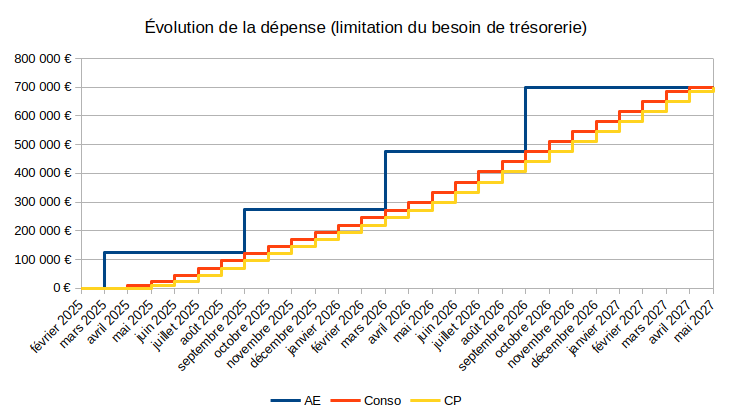
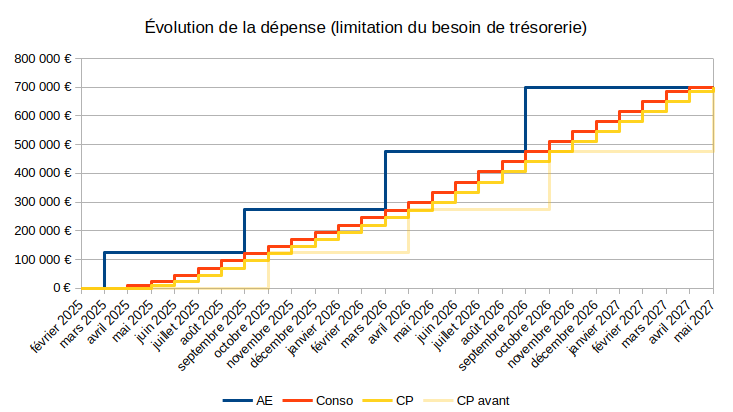
Rédaction article budget 2025

diff --git a/content/_posts/2025-05-19-gestion-budget.md b/content/_posts/2025-05-19-gestion-budget.md
@@ -151,30 +151,63 @@ En réalité, les dépenses de l'État sont discutées et votées par les parlem
 
 Cette présention, à l'année civile est importante pour les comités d'investissement et pour insérer les logiques et enjeux de l'équipe dans les préoccupations et les choix de priorisation de leur administration sponsor.
 
-Par ailleurs, on a l'habitude d'entendre **AE égal CP** pour signifier que l'on ne peut payer que ce que l'on a engagé. Mais cette représentation, pour un cas simple, nous montre que les dépenses d'AE sont **en avance** et celles de CP sont **en retard** par rapport à la consommation réelle.
+Par ailleurs, on a l'habitude d'entendre « **AE égal CP** » pour signifier que l'on ne peut payer que ce que l'on a engagé. Mais cette représentation, même pour un cas simple, nous montre que les dépenses d'AE sont **en avance** et celles de CP sont **en retard** par rapport à la consommation réelle. Comme les années civiles s'enchaînent de façon arbitraire, les « photos » budgétaires reflètent rarement cet adage « AE égal CP ».
 
-![Illustration de la dépense cumulée en AE, réel et CP](/img/posts/2025-05-19-gestion-budgetaire/base.png)
+![Illustration de la dépense cumulée en AE, réel et CP avec les AE en avant et les CP en retard vis à vis du réel](/img/posts/2025-05-19-gestion-budgetaire/base.png)
+
+Le graphique « Évolution de la dépense » illustre le fait que les AE (la courbe bleue) sont dépensées en amont et donc plus rapidement (la courbe bleue est au dessus de la rouge) que le travail est réalisé (la courbe rouge) et que les CP (la courbe jaune) sont dépensés en aval du travail (la courbe jaune est en dessus de la rouge).
 
 ## Les marges de manoeuvre
 
-### Limiter les besoins en trésorerie
+Ces décalages ont des conséquances importantes dans le suivi budgétaire et dans les relations qu'une équipe entretient avec le reste de son écosystème. Voilà quelques pistes qui peuvent être creusées pour collaborer sereinement avec les différentes parties prenantes.
 
-- Des SF partiels mensuels.
-décrire l'espace entre les courbes rouge et jaune
+
+### Limiter les besoins en trésorerie des attributaires
+
+> « Tout travail mérite salaire. »
+
+Sans vouloir revenir sur les limites de cette expression, ce qu'il faut souligner c'est que l'évolution de la courbe rouge est liée au travail de personnes qui seront rémunérées pour cet effort. Qu'elles soient salariées ou sous-traitantes de l'attributaire cela constituera une dépense pour cet attributaire. Cela étant dit, l'entreprise attributaire quant à elle sera payée lorsque des CP (crédits de paiement) sont dépensés, au rythme de la courbe jaune. Plus l'écart (vertical) entre les courbes rouge et jaune est grand, plus l'attributaire a un besoin de trésorerie important. Pour des petites entreprises cela peut générer des situations d'importantes tensions financières.
+
+Pour cette raison, il est possible d'accélérer les dépenses de CP avec ce qu'on appelle des services faits partiels. C'est à dire que les travaux sont certifiés progressivement et en plusieurs fois sans attendre la consommation totale d'un bon de commande. Dans les faits, de plus en plus d'équipes mettent en place des services faits partiels **mensuels**.
+
+
 ![Illustration de la dépense cumulée en AE, réel et CP](/img/posts/2025-05-19-gestion-budgetaire/limite-treso.png)
+
+Le graphique « limitation du besoin de trésorerie » illustre la mise en place des services faits partiels mensuels. On y voit que la courbe jaune est beaucoup moins décalée que la précédente (représentée en transparente).
+
 
 ### Sécuriser la continuité des travaux
 
-Décrire les endroits où les courbes bleu et rouge se touchent comme un risque
+Les changement d'année civile et les périodes de comité d'investissement peuvent générer une tension finanicère sur l'équipe. En effet, d'une part, l'émission d'un bon de commande qui permet à des personnes de travailler est impossible pendant une période allant approximativement de mi-décembre à mi-janvier et d'autre part, en amont d'un comité d'investissement il peut y avoir du stress et une certaine réticence à lancer une nouvelle commande.
+
+Dans ce contexte, il est donc important d'anticiper la consommation et de prévoir des bons de commande qui vont au delà de ces périodes avec plus de flou. De façon très concrète il est bienvenu d'avoir 1, 2 ou 3 mois de consommation possible au delà des ces échéances là. Cette anticipation nécessite des crédits supplémentaires mais la diminution des risques de discontinuité des travaux est extrêmement précieuse.
+
+Par ailleurs, si des réticences à financer d'un comité d'investissement sont compréhensibles, il est important d'indiquer qu'une commande peut n'être que partiellement consommée. Prenons l'exemple d'un bon de commande de 100 000 € couvre 10 mois dont 3 au delà d'un comité d'investissement. Si ce comité décide l'arrêt d'un produit numérique et que l'arrêt est finalisé en 1,5 mois, il est possible de ne payer que les 85 000 € (dépenses en CP) et d'ajuster à posteriori le montant du bon de commande à 85 000 € (pour récupérer 15 000 € en AE et les réinvestir ailleurs).
+
+De plus, bien que cela ne semble pas évident à mettre en place dans la pratique, il est possible en décembre de chaque année de commencer à engager des AE de l'année suivante.
+
 
 ![Illustration de la dépense cumulée en AE, réel et CP](/img/posts/2025-05-19-gestion-budgetaire/securisation.png)
 
-Bien évidemment, il est possible en décembre de chaque année de commencer à engager des AE de l'année suivante. C'est une façon d'anticiper.
+
+Dans l'exemple du graphique, la commande initiale a été revue à la baisse (courbe bleue **en dessous** de la courbe bleue claire) mais une commande complémentaire a été fait 3 mois plus tard pour couvrir 2 mois après le comité d'investissement (courbe bleue **au dessus** de la claire). L'anticipation est visible en regardant le courbe rouge atteindre le niveau (horizontal) de la courbe bleue beaucoup plus tard.
 
 
-### Ajuster les dépenses aux crédits de l'administration
 
-![Illustration de la dépense cumulée en AE, réel et CP](/img/posts/2025-05-19-gestion-budgetaire/ajustements.png)
+### Ajuster les dépenses aux ressources de l'administration
 
+Comme indiqué précédemment, les Startups d'État sont au sein de l'administration. Ce positionnement, sur le volet budgétaire, est particulièrement marqué sur la période de novembre à janvier, on parle de période de fin de gestion (et c'est un tel enjeu pour l'administration qu'il y a un macro-processus budgétaire dédié, le n°4 [« Traitements de fin de gestion et opérations de fin d'exercice »](https://www.budget.gouv.fr/documentation/gestion-publique/macro-processus-budgetaires)).
 
-Présenter des informations financières concrètes, précises et réalistes lors des comités d'investissement constitue un levier important pour gagner la confiance de vos sponsors et pour sécuriser l'avancement et la pérennisation de vos travaux.
+Si l'administration n'a pas dépensé tous ses AE, il est possible de faire des commandes en amont pour couvrir les premiers mois de l'année suivante. Au contraire, si l'administration est plutôt limitée en AE, il faut anticiper et préparer des commandes sur des AE de l'année suivante. 
+
+Côté paiement, c'est la même chose, si l'administration n'a pas dépensé tous ses CP, il faut constater et certifier un maximum des travaux avant la fin de l'année.
+
+Ces réflexions et ces anticipations sont d'autant plus importantes qu'il n'est généralement pas possible d'émettre des bons de commande sur des AE de l'année après **début décembre** et que la certification des travaux s'arrête autour de **mi-décembre**.
+
+![Illustration des ajustements possibles en fin d'année en AE et en CP](/img/posts/2025-05-19-gestion-budgetaire/ajustements.png)
+
+Ces ajustements correspondent au déplacement des doubles flèches rouges du schéma ci-dessus qui séparent les ressources des années _N_ et _N+1_.
+
+En résumé, présenter des informations financières concrètes, précises et réalistes lors des comités d'investissement contribue à l'établissement d'une relation de confiance avec vos sponsors et est bénéfique pour la pérennisation de vos travaux.
+
+Pour aller plus loin, il est toujours possible de consulter la fiche du macro-processus n°3 [« Exécution de la dépense »](https://www.budget.gouv.fr/documentation/gestion-publique/macro-processus-budgetaires) mise à disposition par la direction du budget.
